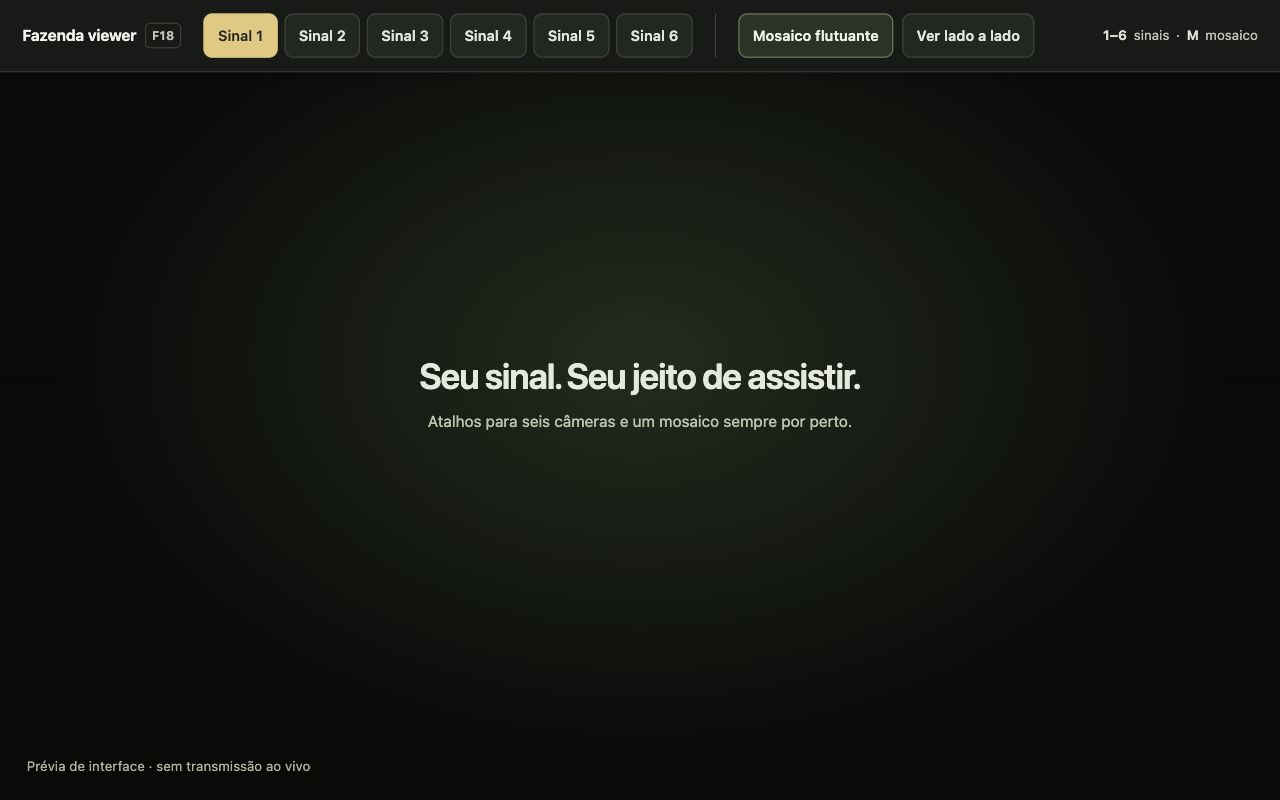
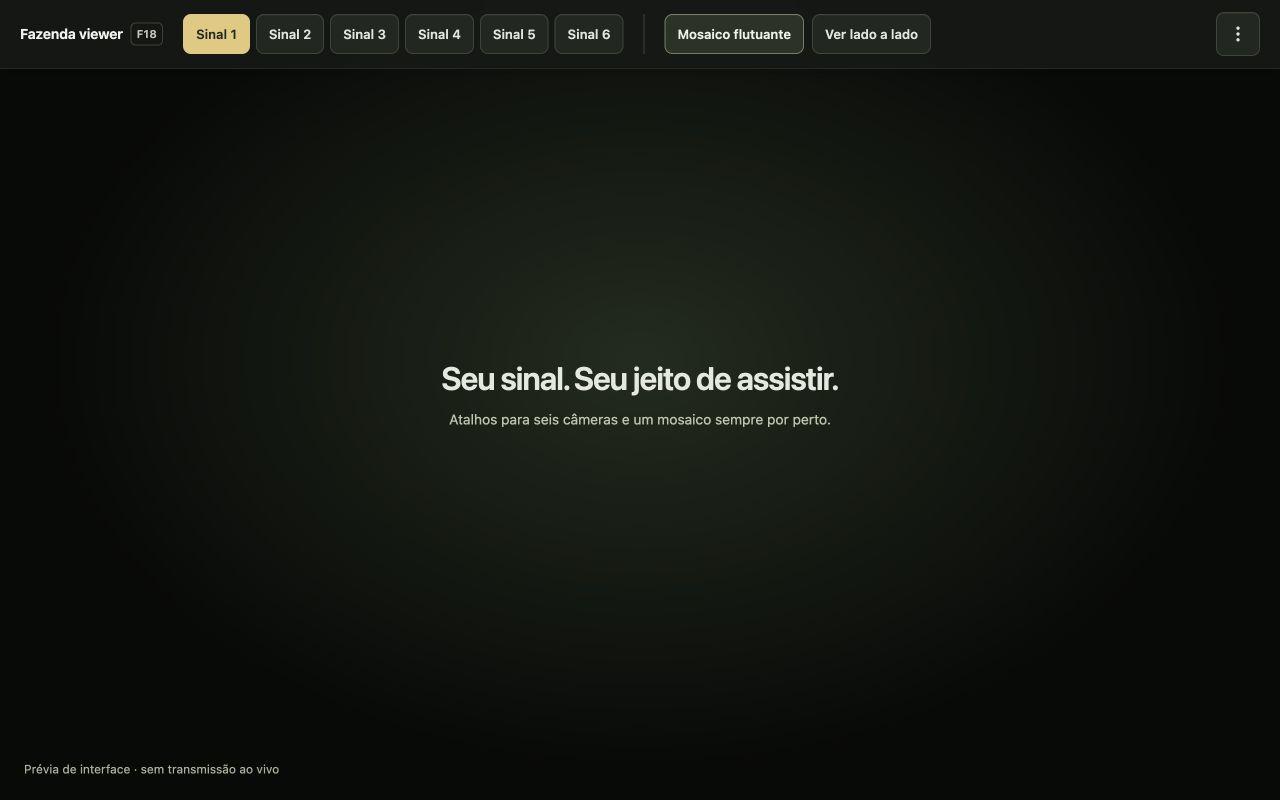
Add an accessible options menu to the viewer

diff --git a/content.js b/content.js
@@ -11,6 +11,7 @@
   let visible = false;
   let presentation = 'side';
   let preparing = false;
+  let shortcutsEnabled = true;
   const watchedVideos = new WeakSet();
   let host, root;
   const send = async message => {
@@ -40,6 +41,20 @@
   }
   function report(error) {
     if (root) root.getElementById('status').textContent = `${error.message} Se você atualizou a extensão, recarregue esta página.`;
+  }
+  function reflectShortcuts() {
+    if (!root) return;
+    root.getElementById('shortcuts-enabled').checked = shortcutsEnabled;
+    for (const button of [...root.querySelectorAll('[data-signal]'), root.getElementById('toggle')]) {
+      const key = button.dataset.signal || 'M';
+      if (shortcutsEnabled) {
+        button.setAttribute('aria-keyshortcuts', key);
+        button.setAttribute('title', `Tecla ${key}`);
+      } else {
+        button.removeAttribute('aria-keyshortcuts');
+        button.removeAttribute('title');
+      }
+    }
   }
   async function selectSignal(signal) {
     const current = location.pathname.split('/').pop();
@@ -90,16 +105,26 @@
     currentRole = role;
     host = document.createElement('div');
     host.id = 'fazenda-local-controls';
+    host.lang = 'pt-BR';
     host.style.cssText = 'position:fixed!important;top:0!important;left:0!important;right:0!important;z-index:2147483647!important;';
     root = host.attachShadow({ mode: 'open' });
-    root.innerHTML = `<style>${FazendaViewer.styles}</style><div class="bar" role="toolbar" aria-label="Controles do Fazenda viewer">
+    root.innerHTML = `<style>${FazendaViewer.styles}</style><div class="bar" role="group" aria-label="Controles do Fazenda viewer">
     <div class="brand"><strong>${role === 'mosaic' ? 'Mosaico' : 'Fazenda viewer'}</strong><span class="badge">${role === 'mosaic' ? 'Sem som' : 'F18'}</span></div>
     <div class="channels" role="group" aria-label="Selecionar sinal principal">
-    ${Array.from({length:6}, (_, i) => `<button data-signal="${i+1}" aria-keyshortcuts="${i+1}" title="Tecla ${i+1}">Sinal ${i+1}</button>`).join('')}
+    ${Array.from({length:6}, (_, i) => `<button type="button" data-signal="${i+1}">Sinal ${i+1}</button>`).join('')}
     </div><div class="modes" role="group" aria-label="Exibir mosaico">
-    <button class="view-action" id="toggle" aria-pressed="false" aria-keyshortcuts="M" title="M: abrir ou fechar o miniplayer do mosaico">Mosaico flutuante</button><button id="side" aria-pressed="false">Ver lado a lado</button>
-    ${role === 'mosaic' ? '<button id="return-main">Voltar ao sinal</button>' : ''}</div>
-    <span class="shortcuts"><kbd>1–6</kbd> sinais <span aria-hidden="true">·</span> <kbd>M</kbd> mosaico</span></div>
+    <button type="button" class="view-action" id="toggle" aria-pressed="false">Mosaico flutuante</button><button type="button" id="side" aria-pressed="false">Ver lado a lado</button>
+    ${role === 'mosaic' ? '<button type="button" id="return-main">Voltar ao sinal</button>' : ''}</div>
+    <div class="overflow" id="more-group">
+      <button type="button" class="more-button" id="more" aria-label="Mais opções" aria-expanded="false" aria-controls="more-panel"><svg viewBox="0 0 24 24" aria-hidden="true" focusable="false"><circle cx="12" cy="5" r="2"/><circle cx="12" cy="12" r="2"/><circle cx="12" cy="19" r="2"/></svg></button>
+      <section class="more-panel" id="more-panel" aria-label="Atalhos e projeto" hidden>
+        <h2>Atalhos de teclado</h2>
+        <dl class="shortcut-list"><dt><kbd>1 a 6</kbd></dt><dd>Trocar o sinal principal</dd><dt><kbd>M</kbd></dt><dd>${role === 'mosaic' ? 'Abrir ou fechar o miniplayer' : 'Preparar ou fechar o mosaico flutuante'}</dd></dl>
+        <label class="shortcut-setting"><input type="checkbox" id="shortcuts-enabled" checked>Ativar atalhos de teclado</label>
+        <p>Funcionam nesta página, fora de campos de texto. Para abrir o miniplayer, use M na aba do mosaico.</p>
+        <a class="github-link" id="github-link" href="https://github.com/jungleBadger/a-fazenda-viewer" target="_blank" rel="noopener noreferrer">Projeto no GitHub<span aria-hidden="true">↗</span><span class="sr-only"> (abre em nova aba)</span></a>
+      </section>
+    </div></div>
     <div class="hint" id="pip-hint" hidden>Espere o vídeo carregar e clique em <strong>Abrir miniplayer</strong> (ou pressione M). Você volta ao sinal principal. Deixe esta aba aberta.</div><div class="status" role="status" id="status"></div>`;
     document.documentElement.append(host);
     const perform = async action => {
@@ -116,8 +141,42 @@
       const state = await send({type:'toggle'}); visible = Boolean(state.visible); preparing = false; presentation = 'side'; reflect();
     }));
     root.getElementById('return-main')?.addEventListener('click', () => perform(() => send({type:'return-main'})));
+    const more = root.getElementById('more');
+    const morePanel = root.getElementById('more-panel');
+    const moreGroup = root.getElementById('more-group');
+    const setMoreOpen = (open, returnFocus = false) => {
+      more.setAttribute('aria-expanded', String(open));
+      morePanel.hidden = !open;
+      if (returnFocus) more.focus();
+    };
+    more.addEventListener('click', () => setMoreOpen(morePanel.hidden));
+    moreGroup.addEventListener('focusout', event => {
+      if (event.relatedTarget && !moreGroup.contains(event.relatedTarget)) setMoreOpen(false);
+    });
+    window.addEventListener('pointerdown', event => {
+      if (!event.composedPath().includes(moreGroup)) setMoreOpen(false);
+    }, {capture:true});
+    root.getElementById('shortcuts-enabled').addEventListener('change', event => {
+      shortcutsEnabled = event.target.checked;
+      reflectShortcuts();
+      chrome.storage.local.set({keyboardShortcutsEnabled:shortcutsEnabled}).catch(report);
+    });
+    reflectShortcuts();
     // Capture shortcuts before the player handles number seeking or M for mute.
     window.addEventListener('keydown', event => {
+      if (!morePanel.hidden) {
+        if (event.key === 'Escape') {
+          event.preventDefault();
+          event.stopImmediatePropagation();
+          setMoreOpen(false, true);
+        } else if (/^[1-6m]$/i.test(event.key) && !event.ctrlKey && !event.metaKey && !event.altKey && !event.isComposing) {
+          // Keep help available without triggering playback shortcuts on either page.
+          event.preventDefault();
+          event.stopImmediatePropagation();
+        }
+        return;
+      }
+      if (!shortcutsEnabled) return;
       if (event.ctrlKey || event.metaKey || event.altKey || event.isComposing) return;
       // composedPath includes fields inside our toolbar and the site's shadow DOM.
       if (event.composedPath().some(node => node.isContentEditable || node.matches?.('input,textarea,select,[role="textbox"],[role="combobox"]'))) return;
@@ -178,11 +237,19 @@
       if (visible || preparing) video.play().catch(() => {}); else video.pause();
     }
   });
+  chrome.storage.onChanged.addListener((changes, area) => {
+    if (area === 'local' && changes.keyboardShortcutsEnabled) {
+      shortcutsEnabled = changes.keyboardShortcutsEnabled.newValue !== false;
+      reflectShortcuts();
+    }
+  });
   let attempts = 0;
   async function connect() {
     try {
       const state = await send({type:'state'});
       if (state?.managed) {
+        const preferences = await chrome.storage.local.get({keyboardShortcutsEnabled:true});
+        shortcutsEnabled = preferences.keyboardShortcutsEnabled !== false;
         visible = state.visible;
         preparing = Boolean(state.preparing);
         presentation = state.presentation || 'side';

diff --git a/viewer-ui.js b/viewer-ui.js
@@ -4,19 +4,25 @@
   globalThis.FazendaViewer = {
     urls: codes.map(code => `https://www.recordplus.com/player/channel/${code}`),
     styles: `
-      :host{all:initial;display:block;color-scheme:dark}*{box-sizing:border-box}
-      .bar{background:#171a17;color:#f1f2ed;font:14px/1.4 system-ui,-apple-system,BlinkMacSystemFont,"Segoe UI",sans-serif;display:flex;gap:20px;align-items:center;flex-wrap:wrap;padding:12px 20px;border-bottom:1px solid #343a33;box-shadow:0 3px 14px #0003}
+      :host{all:initial;display:block;color-scheme:dark;background:rgba(23,26,23,.82);-webkit-backdrop-filter:blur(14px);backdrop-filter:blur(14px);border-bottom:1px solid #ffffff12;box-shadow:0 3px 14px #0003}*{box-sizing:border-box}
+      .bar{color:#f1f2ed;font:14px/1.4 system-ui,-apple-system,BlinkMacSystemFont,"Segoe UI",sans-serif;display:flex;gap:20px;align-items:center;flex-wrap:wrap;padding:12px 20px}
       .brand,.channels,.modes{display:flex;align-items:center}.brand{gap:8px;white-space:nowrap}.brand strong{font-size:14px;font-weight:650;letter-spacing:-.2px}.badge{font-size:11px;font-weight:600;letter-spacing:.3px;color:#c1c7bb;border:1px solid #3b4337;border-radius:5px;padding:3px 5px}
       .channels{gap:6px}.modes{gap:8px;border-left:1px solid #3b4337;padding-left:20px}
       button{font:inherit;font-size:13px;font-weight:600;line-height:20px;min-height:40px;white-space:nowrap;cursor:pointer;border:1px solid #3d453a;background:#222720;color:#e0e5dc;border-radius:8px;padding:9px 12px;box-shadow:inset 0 1px 0 #ffffff08;transition:background-color .12s,border-color .12s}
       button:hover{background:#30382b;border-color:#616d55}.channels button[aria-pressed=true]{background:#e3c879;border-color:#e3c879;color:#25271e;box-shadow:none}
       .modes button[aria-pressed=true]{background:#343e2d;border-color:#829271;color:#f3f6ee}.view-action{border-color:#737e60;background:#2a3224;color:#eef2e7}
-      button:focus-visible{outline:2px solid #e3c879;outline-offset:3px}
-      .shortcuts{margin-left:auto;display:flex;align-items:center;gap:6px;font-size:12px;color:#bac3b0;white-space:nowrap}kbd{font:inherit;font-weight:650;color:#dbe1d2}
-      .status,.hint{background:#171a17;padding:0 20px 12px;font:13px/1.5 system-ui,sans-serif;color:#d9e1cf}.status:empty,.hint[hidden]{display:none}.status{color:#f0c1b6}.hint strong{font-weight:650}
-      @media(max-width:1100px){.bar{gap:12px}.modes{padding-left:12px}.shortcuts{display:none}}
-      @media(max-width:760px){.bar{gap:12px;padding:12px}.brand{width:100%}.channels{display:grid;grid-template-columns:repeat(6,minmax(0,1fr));width:100%}.channels button{padding:9px 6px}.modes{border-left:0;padding-left:0;flex-wrap:wrap}.status,.hint{padding:0 12px 12px}}
+      button:focus-visible,a:focus-visible,input:focus-visible{outline:2px solid #e3c879;outline-offset:3px}
+      .overflow{position:relative;margin-left:auto;flex-shrink:0}.more-button{display:grid;place-items:center;width:44px;height:44px;padding:0}.more-button[aria-expanded=true]{background:#343e2d;border-color:#829271}.more-button svg{width:20px;height:20px;fill:currentColor}
+      .more-panel{position:absolute;right:0;top:calc(100% + 8px);width:320px;max-width:calc(100vw - 24px);max-height:calc(100dvh - 80px);overflow:auto;padding:20px;background:#20261f;color:#eef2e8;border:1px solid #59644e;border-radius:12px;box-shadow:0 12px 32px #0006;font-size:14px;line-height:1.5}.more-panel[hidden]{display:none}.more-panel h2{font-size:14px;font-weight:650;margin:0 0 12px}.shortcut-list{display:grid;grid-template-columns:60px 1fr;gap:10px 12px;margin:0 0 12px}.shortcut-list dt,.shortcut-list dd{margin:0}.shortcut-list kbd{display:block;font:inherit;font-size:12px;font-weight:650;text-align:center;background:#303a2b;border:1px solid #647357;border-radius:5px;padding:3px 6px}.shortcut-setting{display:flex;gap:10px;align-items:center;min-height:44px;cursor:pointer}.shortcut-setting input{width:18px;height:18px;margin:0;accent-color:#e3c879;flex-shrink:0}.more-panel p{margin:4px 0 16px;font-size:12px;color:#c1cbb6}.github-link{display:flex;align-items:center;justify-content:space-between;gap:12px;min-height:44px;padding:10px 0 0;border-top:1px solid #59644e;color:#e3c879;text-decoration:underline;text-underline-offset:3px}.github-link:hover{color:#f3deab}.sr-only{position:absolute;width:1px;height:1px;padding:0;margin:-1px;overflow:hidden;clip:rect(0,0,0,0);white-space:nowrap;border:0}
+      .status,.hint{padding:0 20px 12px;font:13px/1.5 system-ui,sans-serif;color:#d9e1cf}.status:empty,.hint[hidden]{display:none}.status{color:#f0c1b6}.hint strong{font-weight:650}
+      @media(max-width:1100px){.bar{gap:12px}.modes{padding-left:12px}}
+      @media(max-width:1000px){.bar{display:grid;grid-template-columns:auto 1fr auto;padding:12px}.brand{grid-column:1;grid-row:1}.channels{grid-column:2/-1;grid-row:1;display:grid;grid-template-columns:repeat(6,minmax(0,1fr));width:100%;min-width:0}.channels button{padding:9px 6px}.modes{grid-column:1/3;grid-row:2;min-width:0;border-left:0;padding-left:0;flex-wrap:wrap}.overflow{grid-column:3;grid-row:2;align-self:start}.status,.hint{padding:0 12px 12px}.more-panel{max-height:calc(100dvh - 140px)}}
+      @media(max-width:760px){.brand{grid-column:1/-1}.channels{grid-column:1/-1;grid-row:2}.modes,.overflow{grid-row:3}.more-panel{max-height:calc(100dvh - 200px)}}
+      @media(max-width:420px){.modes{gap:6px}.modes button{padding:9px 8px}}
+      @media(max-width:360px){.bar{column-gap:8px}.channels{grid-template-columns:repeat(3,minmax(0,1fr))}.modes button{padding-left:6px;padding-right:6px}.more-panel{max-height:calc(100dvh - 240px)}}
       @media(prefers-reduced-motion:reduce){button{transition:none}}
+      @media(prefers-reduced-transparency:reduce){:host{background:#171a17;-webkit-backdrop-filter:none;backdrop-filter:none}}
+      @media(forced-colors:active){:host,.more-panel{background:Canvas;color:CanvasText}.more-panel,.github-link{border-color:CanvasText}.channels button[aria-pressed=true],.modes button[aria-pressed=true],.more-button[aria-expanded=true]{outline:2px solid Highlight;outline-offset:-4px}.github-link{color:LinkText}button:focus-visible,a:focus-visible,input:focus-visible{outline-color:Highlight}}
     `
   };
 })();

diff --git a/tools/preview.html b/tools/preview.html
@@ -8,7 +8,8 @@ const role = previewParams.get('role') === 'mosaic' ? 'mosaic' : 'main';
 let viewerState={managed:true,role,visible:false,presentation:'side',preparing:false};
 let stateHandler;
 history.replaceState(null,'',new URL(FazendaViewer.urls[role==='mosaic'?6:0]).pathname);
-window.chrome={runtime:{onMessage:{addListener(fn){stateHandler=fn;}},async sendMessage(message){
+let preferenceHandler;
+window.chrome={storage:{local:{async get(defaults){const saved=localStorage.getItem('keyboardShortcutsEnabled');return {...defaults,...(saved===null?{}:{keyboardShortcutsEnabled:saved==='true'})};},async set(values){const oldValue=localStorage.getItem('keyboardShortcutsEnabled')!=='false';localStorage.setItem('keyboardShortcutsEnabled',String(values.keyboardShortcutsEnabled));preferenceHandler?.({keyboardShortcutsEnabled:{oldValue,newValue:values.keyboardShortcutsEnabled}},'local');}},onChanged:{addListener(fn){preferenceHandler=fn;}}},runtime:{onMessage:{addListener(fn){stateHandler=fn;}},async sendMessage(message){
   if(message.type==='state')return viewerState;
   if(message.type==='select'){
     const path=new URL(FazendaViewer.urls[message.signal-1]).pathname;

diff --git a/docs/ux-review.md b/docs/ux-review.md
@@ -8,15 +8,26 @@ Referências: Erik D. Kennedy, [7 Rules for Creating Gorgeous UI — parte 1](ht
 | Sinal selecionado e miniplayer aberto competiam em amarelo | Dourado para o sinal atual; estado do mosaico em verde discreto |
 | Controles pequenos e texto apertado | Botões com 40 px de altura e espaçamento consistente |
 | Peso do texto mudava ao selecionar um sinal | Peso constante para impedir saltos na largura dos botões |
-| Atalhos disputavam espaço com as ações | Texto auxiliar menos destacado; títulos dos botões preservam as dicas |
-| Barra podia ficar apertada em janelas pequenas | Seis sinais em uma grade; modos em uma linha seguinte abaixo de 760 px |
+| Atalhos disputavam espaço com as ações | Ajuda dos atalhos e GitHub em Mais opções, à direita; títulos dos botões preservam as dicas quando os atalhos estão ativos |
+| Barra podia ficar apertada em janelas pequenas | Grade abaixo de 1.000 px, com os modos em uma linha seguinte; abaixo de 760 px, sinais em um grupo próprio; abaixo de 360 px, grade de três colunas |
 | Foco e estado de “lado a lado” pouco explícitos | Contorno de foco e estado `aria-pressed` também no modo lado a lado |
 | Mensagem de permissão aparecia durante a troca | Cobertura de carregamento por no máximo 1,8 s, encerrada quando o vídeo reproduz |
+| Fundo sólido da barra pesava visualmente | Transparência leve com desfoque, controles opacos e alternativa sem transparência |
 
 A cobertura só é usada na troca do sinal principal. Não clica em “Ok”, altera login ou autorizações, nem oculta erros indefinidamente. O tempo limite também funciona quando não existe vídeo, a navegação falha ou o DOM chega tarde.
 
 ## Verificação
 
-27 testes locais cobrem abas, PiP, navegação, atalhos e o limite da cobertura. A prévia em `tools/preview.html` usa os scripts reais de interface com uma sessão simulada, sem conteúdo do RecordPlus. A revisão visual verifica janelas de desktop e janelas estreitas, seleção e mensagens persistentes.
+31 testes locais cobrem abas, PiP, navegação, atalhos, menu, foco, preferência dos atalhos e o limite da cobertura. A prévia em `tools/preview.html` usa os scripts reais de interface com uma sessão simulada, sem conteúdo do RecordPlus. A revisão visual verifica janelas de desktop e janelas estreitas, seleção e mensagens persistentes.
+
+## Acessibilidade
+
+Mais opções segue o [padrão de divulgação de conteúdo do W3C](https://www.w3.org/WAI/ARIA/apg/patterns/disclosure/): botão nativo com nome, `aria-expanded` e `aria-controls`, conteúdo oculto quando fechado e controles nativos dentro do painel. Enter e Espaço abrem e fecham; Tab segue a ordem normal, sem prender o foco; Escape fecha e devolve foco ao botão. Clique fora e saída de foco para outro controle também fecham o painel.
+
+O link do GitHub informa que abre em nova aba. O painel e as ações têm rótulos em português, foco visível e tamanho adequado; o botão Mais opções tem 44 × 44 px. A barra também respeita movimento reduzido, transparência reduzida e cores forçadas.
+
+A opção de desativar atalhos atende ao mecanismo previsto pelo [WCAG 2.1.4 para atalhos de caracteres](https://www.w3.org/WAI/WCAG22/Understanding/character-key-shortcuts.html), ajudando a evitar acionamento acidental por entrada de voz. A preferência persiste no dispositivo. As teclas ficam suspensas enquanto o painel está aberto; os botões continuam disponíveis com os atalhos desligados.
+
+Navegação por teclado e rótulos foram verificados na árvore de acessibilidade do navegador. Uma revisão com leitor de tela e reprodução real continua pendente antes da publicação.
 
 Pendente antes da publicação: verificar a troca dos seis sinais, login, mensagens persistentes e PiP em uma sessão real do RecordPlus. A sessão do Chrome instalada pelo usuário não está conectada a este chat.

diff --git a/docs/privacy-policy.md b/docs/privacy-policy.md
@@ -10,6 +10,8 @@ A extensão acessa elementos do player e seu estado de reprodução nas páginas
 
 Identificadores das abas e janelas, tamanho das janelas, modo de exibição e estado temporário de navegação são guardados apenas na sessão local do Chrome, por meio de `chrome.storage.session`. Não são enviados ao desenvolvedor e não formam um histórico de navegação. O estado do viewer é removido quando sua aba principal é fechada; o armazenamento de sessão também é apagado ao encerrar o navegador, desativar, recarregar ou atualizar a extensão.
 
+A preferência de ativar ou desativar os atalhos é guardada no dispositivo em `chrome.storage.local`, para ser mantida quando você reabre o viewer. Ela não é enviada a um servidor e é removida ao desinstalar a extensão.
+
 A extensão não coleta credenciais, informações de pagamento, dados de identidade, mensagens ou conteúdo de outros sites. Não contém telemetria, publicidade, ferramentas de análise ou rastreadores, e não vende ou compartilha dados pessoais.
 
 ## RecordPlus
@@ -18,7 +20,7 @@ Login, assinatura, reprodução e limites de uso são administrados pelo própri
 
 ## Permissões
 
-- `storage`: guardar o estado temporário do viewer na sessão local.
+- `storage`: guardar o estado temporário do viewer na sessão e a preferência local dos atalhos.
 - Acesso a `recordplus.com` e `www.recordplus.com`: adicionar os controles e interagir com o player nas abas do viewer. Não é solicitado acesso a todos os sites.
 
 ## Controle do usuário

diff --git a/store/listing.md b/store/listing.md
@@ -30,7 +30,7 @@ Facilitar a visualização de A Fazenda 18 no RecordPlus, com seleção dos sina
 
 ## Justificativas de permissões
 
-`storage`: salvar IDs de abas/janelas, dimensões e estado de exibição em `chrome.storage.session`, apenas no dispositivo, para reutilizar o mosaico e restaurar as janelas.
+`storage`: salvar IDs de abas/janelas, dimensões e estado de exibição em `chrome.storage.session`, apenas no dispositivo, para reutilizar o mosaico e restaurar as janelas. Guardar a preferência de ativar ou desativar os atalhos em `chrome.storage.local`.
 
 Permissões de host do RecordPlus: injetar os controles nas páginas oficiais e acompanhar o elemento de vídeo e seu estado nas abas gerenciadas pelo viewer.
 
